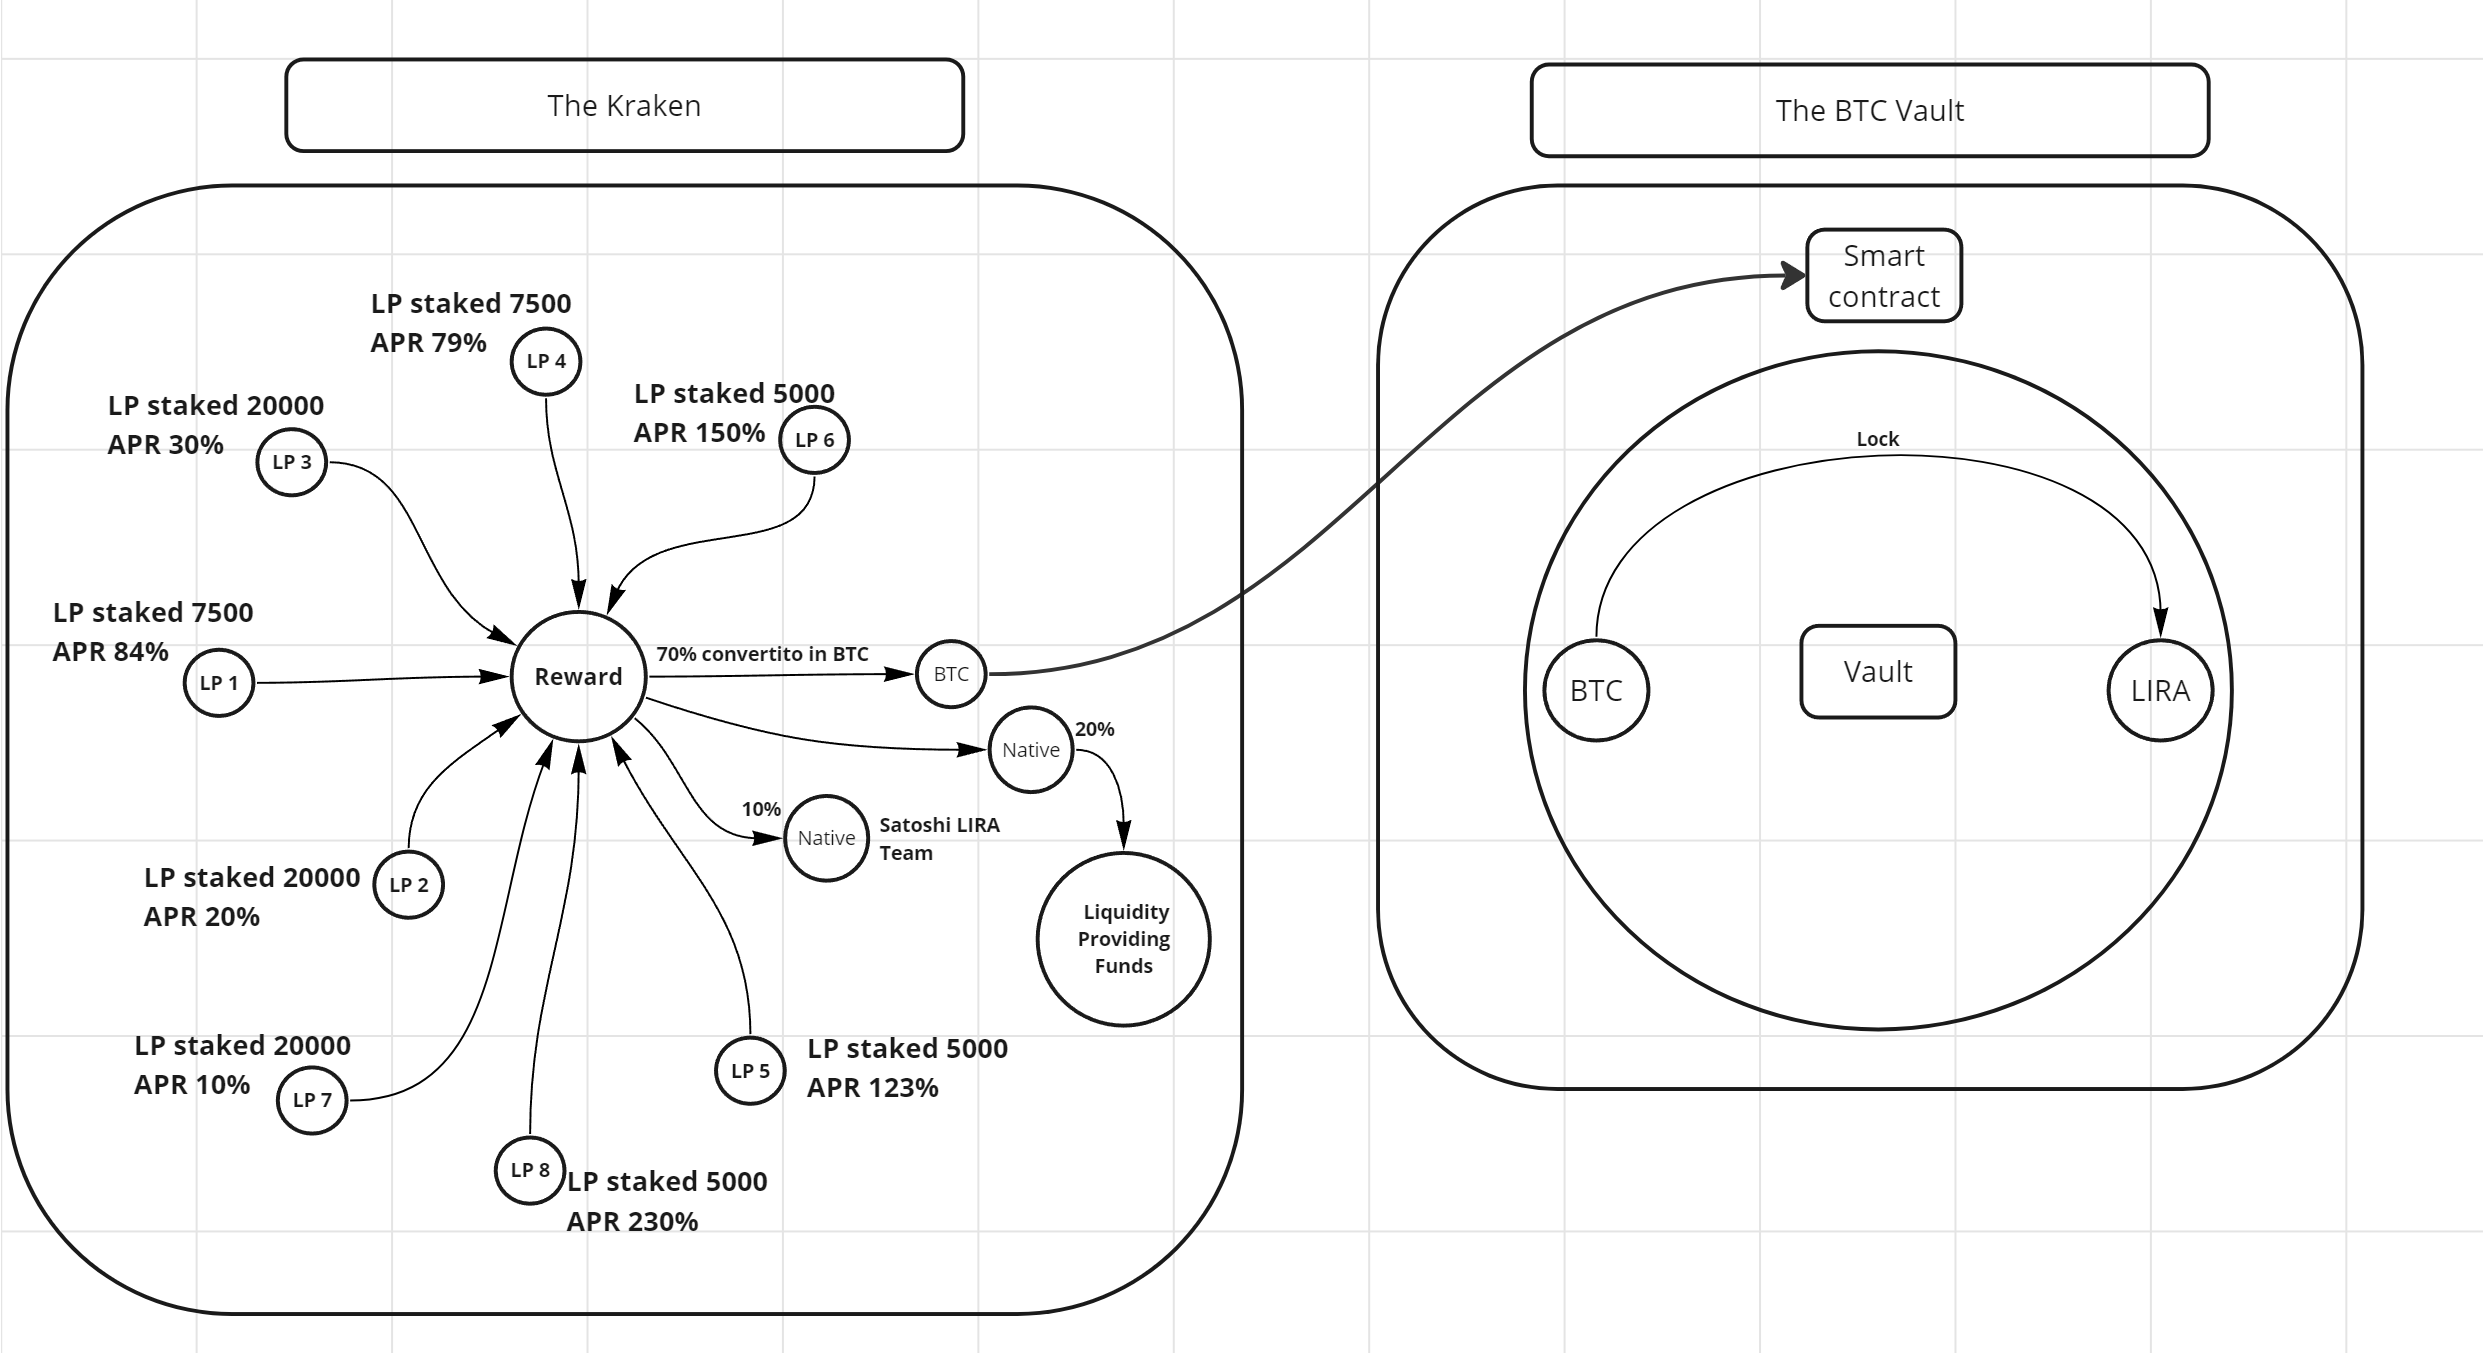
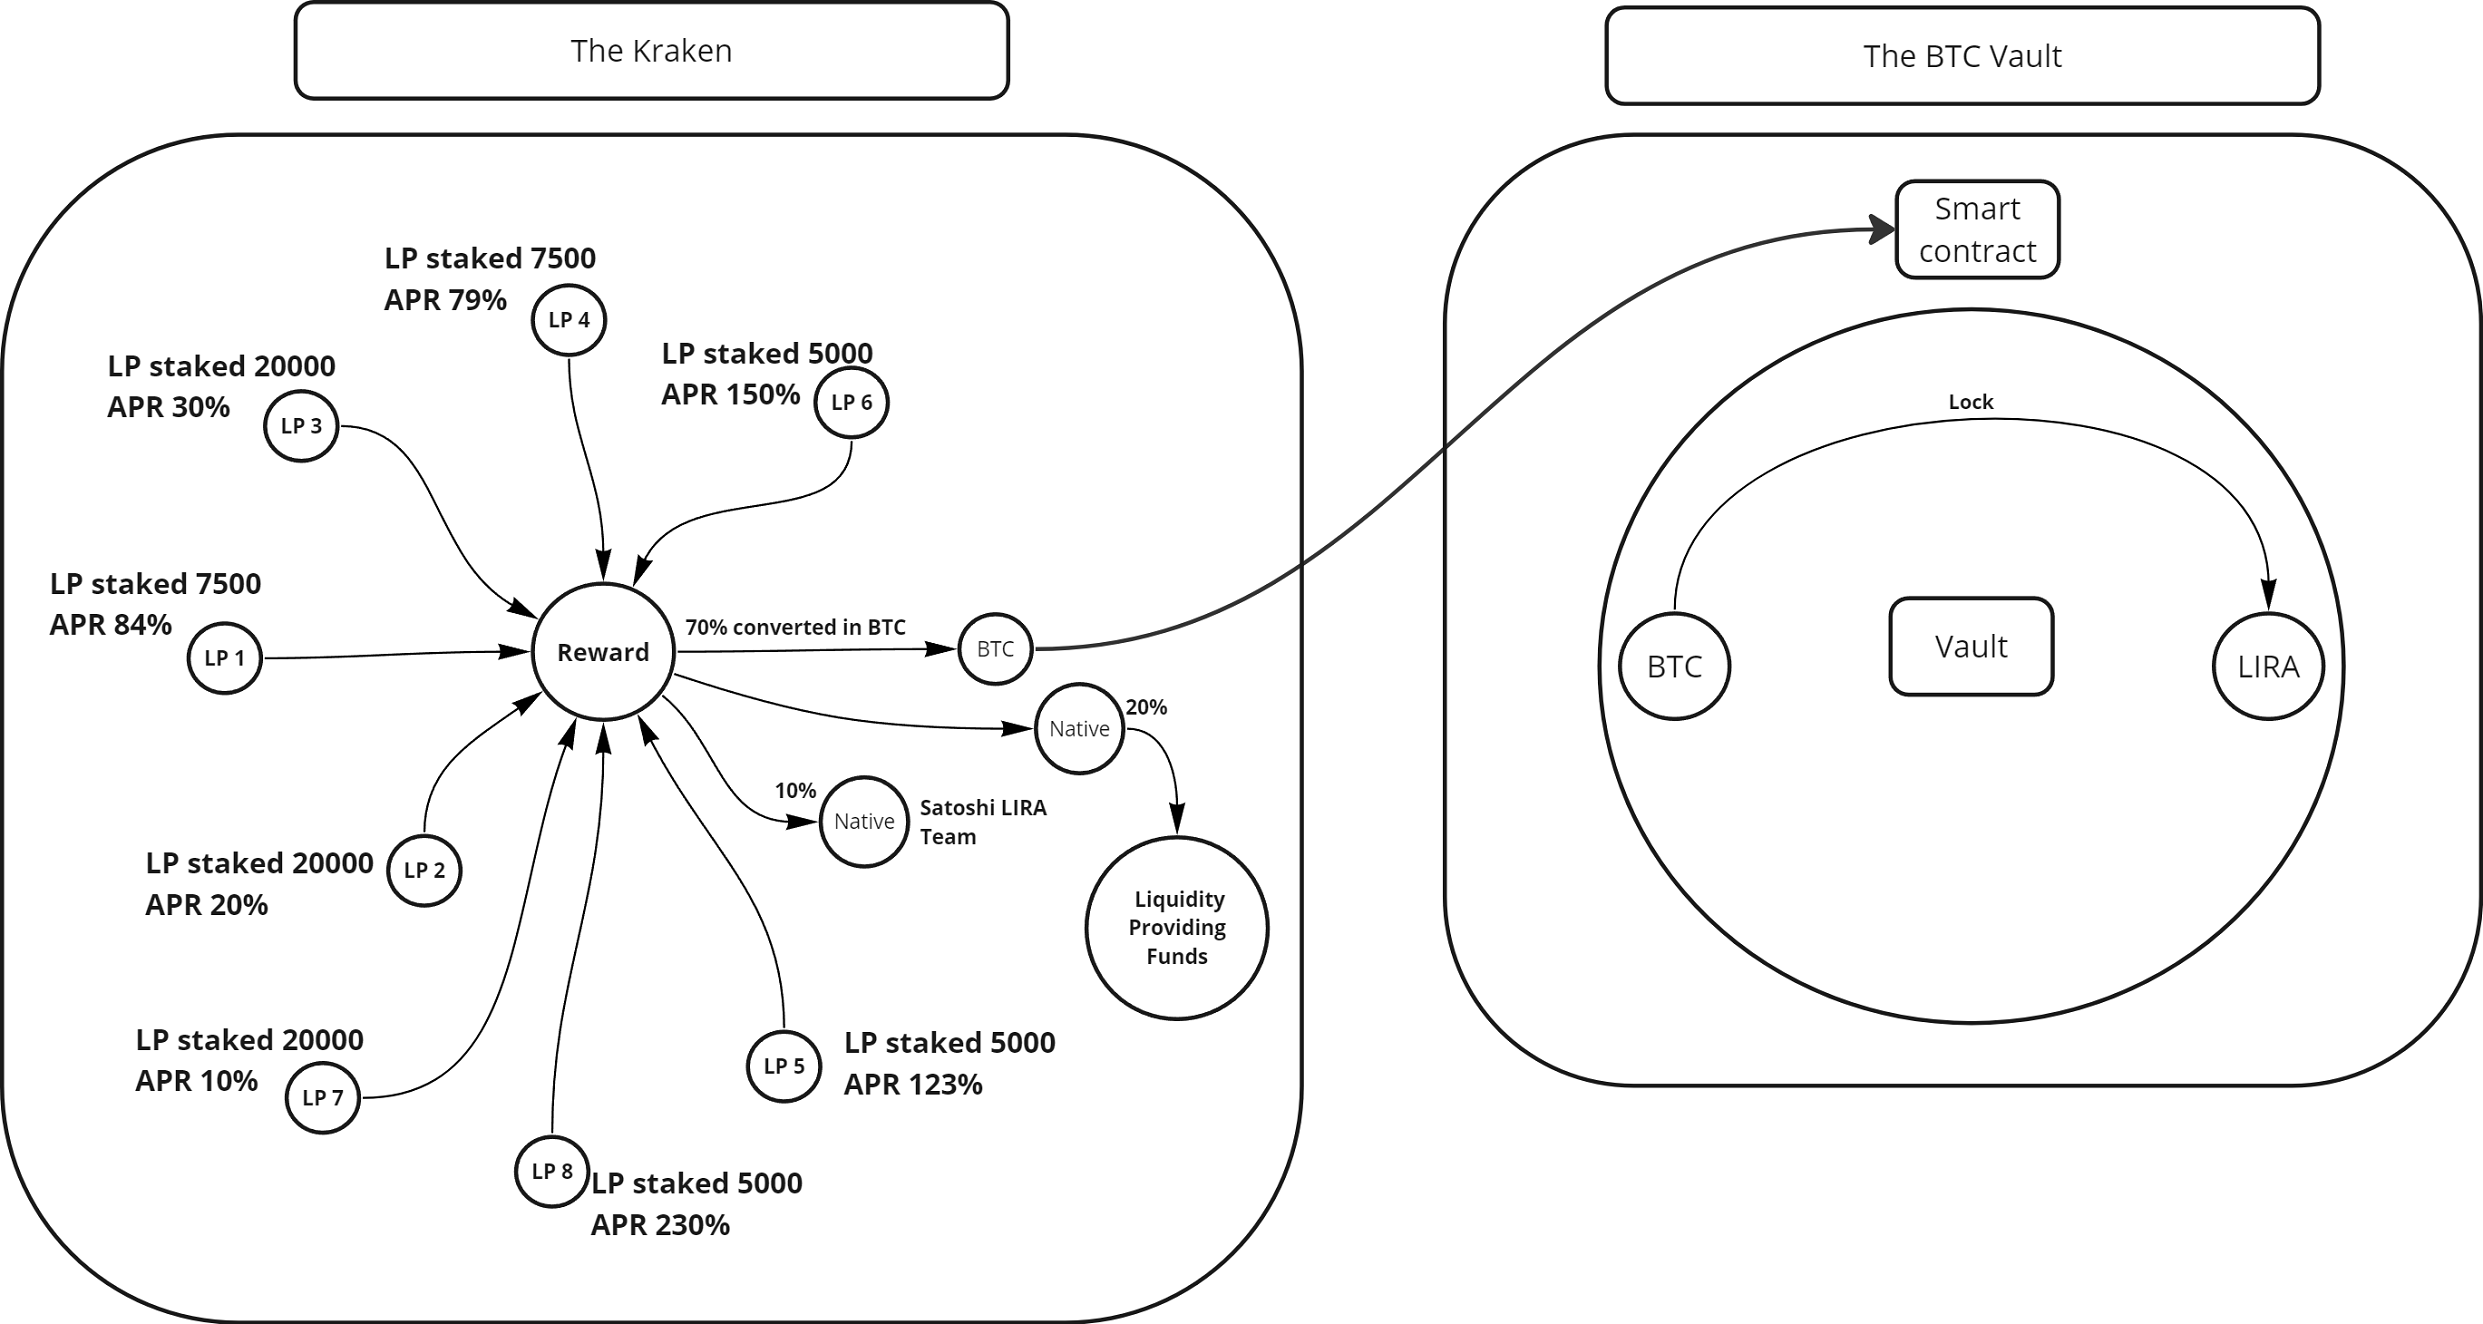
Develop (#3)
* update config

* graphs update

* graphs update

* update theme

---------

diff --git a/content/Chapter6/6.1/_index.md b/content/Chapter6/6.1/_index.md
@@ -8,4 +8,4 @@ url: '/commodities-rebase-token'
 
 To fill one of the major gaps in the crypto sector, namely the inability to invest one's cryptocurrencies in traditional market assets, the LIRA DeX provides a token rebase system designed to emulate the price of certain commodities. The target value of these tokens is determined by an oracle that observes the price fluctuations of the relevant commodities in the traditional market. a pre-determined hourly rebasing mechanism is then applied to maintain the token's price fidelity to the reference commodity.
 
-![Grafico Hydra](/images/GraficoHydra.png)
+![Grafico Hydra](/images/Hydranew.png)

diff --git a/content/chapter7/_index.md b/content/chapter7/_index.md
@@ -25,5 +25,5 @@ The YOSHI token will be used as the governance token, meaning that any decision 
 All users who voted for rejected proposals will receive back 80% of their YOSHI tokens used for the voting process.
 The remaining 20% will be split and distributed as follows: 
 
-    80% will go to the users who voted for the approved proposal in the form of an airdrop
+    80% will be airdropped to the users who voted for the approved proposal
     20% will be split between the LIRA team and the LIRA ecosystem (10%, 90%)

diff --git a/content/009-lira-protocol-overview/_index.md b/content/009-lira-protocol-overview/_index.md
@@ -6,4 +6,4 @@ weight: 100
 url: '/lira-protocol-overview'
 ---
 
-![Lira protocol overview](/images/Graficocompleto.png)
+![Lira protocol overview](/images/liraoverview.png)
